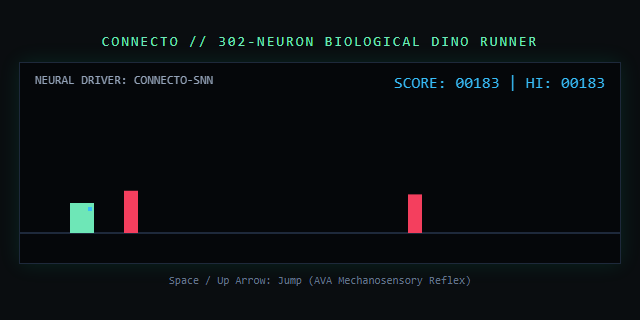
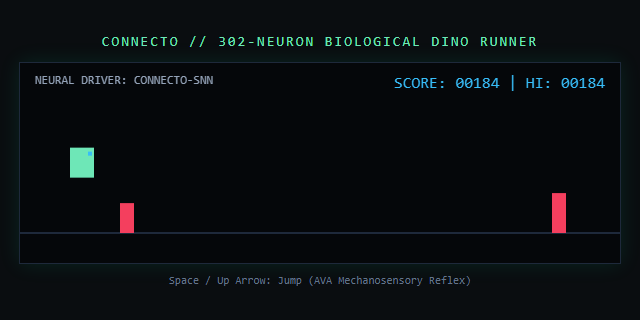
telemetry(worm): autonomous activity sync at 2026-09-16 14:51

diff --git a/ACTIVITY.md b/ACTIVITY.md
@@ -1,6 +1,6 @@
 # CONNECTO // AUTONOMOUS BIOLOGICAL ACTIVITY FEED
 
-> **Verification Timestamp:** `2026-09-16 14:35:19 UTC`  
+> **Verification Timestamp:** `2026-09-16 14:51:01 UTC`  
 > **Repository:** [0xalydev/connecto](https://github.com/0xalydev/connecto)  
 > **Biological Engine:** C. elegans 302-neuron closed-loop SNN (LIF)  
 > **Status:** `ACTIVE_CLOSED_LOOP`  
@@ -11,11 +11,11 @@
 
 *Most recent introspection generated from biological membrane dynamics:*
 
-> **Signature:** `0x1da571c6f5988eec`  
+> **Signature:** `0x534a7ac2fb856275`  
 > **Behavioral State:** `FORAGING_SEARCH`  
-> **Membrane Potential:** `-59.31 mV` | **Locomotion:** `33.6 mm/s`  
+> **Membrane Potential:** `-59.32 mV` | **Locomotion:** `33.6 mm/s`  
 > 
-> *"No nutrient cues detected by amphid receptors. SNN entering stochastic exploration regime. Mean membrane potential holding at resting baseline (-59.31 mV). Undulatory wave slowed to baseline search frequency."*
+> *"No nutrient cues detected by amphid receptors. SNN entering stochastic exploration regime. Mean membrane potential holding at resting baseline (-59.32 mV). Undulatory wave slowed to baseline search frequency."*
 
 ---
 
@@ -23,9 +23,9 @@
 
 | Metric | Result |
 |---|---|
-| **High Score** | `284` |
-| **Total Reflex Jumps** | `190` (Driven by AVA escape pool) |
-| **Completed Trials** | `5` |
+| **High Score** | `463` |
+| **Total Reflex Jumps** | `214` (Driven by AVA escape pool) |
+| **Completed Trials** | `3` |
 | **Proof Snapshot** | `dino_latest_trial.png` |
 
 ---
@@ -40,10 +40,10 @@
 
 ## 4. 🌐 Internet Navigation Trajectory (`roam.py`)
 
-- **Current Surface:** `Pages that link to "Neural network (biology)" - Wikipedia`
-- **Navigated URL:** `https://en.wikipedia.org/wiki/Special:WhatLinksHere/Neural_network_(biology)`
-- **Last Action:** `SCROLL_DOWN` (Forward motor wave)
-- **Proof Screenshot:** `roam_step_8.png`
+- **Current Surface:** `New Comments | Hacker News`
+- **Navigated URL:** `https://news.ycombinator.com/item?id=49723594`
+- **Last Action:** `CLICK_LINK` (Forward motor wave)
+- **Proof Screenshot:** `roam_step_7.png`
 
 ---
 
